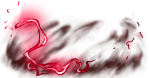
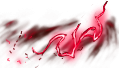
Pictures
Added pictures for new heroes, aBavah now holds energy orbs, adjusted
raging aura, Guy now has fireworks behind him, added P6 star

diff --git a/CosmosQuestSolver/src/GUI/CreatureDrawer.java b/CosmosQuestSolver/src/GUI/CreatureDrawer.java
@@ -196,6 +196,12 @@ public class CreatureDrawer {
     }
     
     protected static void drawHero(Hero h, Graphics g){
+        
+        if (h.getName().equals("Guy")){
+            BufferedImage fireworks = ImageFactory.getPicture("Stands/Firework Aura");
+            g.drawImage(fireworks, AssetPanel.CREATURE_PICTURE_SIZE - CREATURE_X, CREATURE_Y + 4, -CREATURE_WIDTH, CREATURE_HEIGHT - 8, null);
+        }
+        
         BufferedImage image = ImageFactory.getPicture(h.getImageAddress());
         
         if (h.isFacingRight()){
@@ -208,6 +214,7 @@ public class CreatureDrawer {
         if (CreatureDrawer.drawFuriousAura(h)){
             drawFuriousAura(h,g);
         }
+        
         
     }
     
@@ -240,7 +247,7 @@ public class CreatureDrawer {
     
     public static final int PROMOTE_STAR_SIZE = 20;
     public static final int P5_STAR_SIZE = 28;
-    public static final int P6_STAR_SIZE = 34;
+    public static final int P6_STAR_SIZE = 35;
     private static void drawPromotion(Hero h,Graphics g){
         BufferedImage promoteStar = ImageFactory.getPicture("Stands/PromoteStar");
         BufferedImage p5Star = ImageFactory.getPicture("Stands/P5Star");
@@ -278,10 +285,10 @@ public class CreatureDrawer {
             break;
             case 6:
                 if (h.isFacingRight()){//6th star is even bigger
-                    g.drawImage(p6Star, 0, 0, P6_STAR_SIZE, P6_STAR_SIZE, null);
+                    g.drawImage(p6Star, 0, 0, P6_STAR_SIZE - 2, P6_STAR_SIZE, null);
                 }
                 else{
-                    g.drawImage(p6Star, PROMOTE_STAR_SIZE - P6_STAR_SIZE, 0, P6_STAR_SIZE, P6_STAR_SIZE, null);
+                    g.drawImage(p6Star, PROMOTE_STAR_SIZE - P6_STAR_SIZE - 2, 0, P6_STAR_SIZE - 2, P6_STAR_SIZE, null);
                 }
             break;
             

diff --git a/CosmosQuestSolver/src/Formations/Formation.java b/CosmosQuestSolver/src/Formations/Formation.java
@@ -302,6 +302,7 @@ public class Formation implements Iterable<Creature>{
     }
     
     //cool solution: <Enemy> Guy:1k, Defile:1k, Geum:1k, Aural:1k, e33 <Solution> Rose:99.4, Guy:36, Hawking:99.4, Neil:99.5, aTR0N1X:99.4, Aurora:99.4
+    //<Enemy> Hoso:1k, Veil:1k, Nebra:1k, Nerissa:1k, Liu Cheng:1k <Solution> aAthos:99.5, Rose:99.4, Guy:57, Lee:99.4, Aurora:99.4, Fir:99.5
 
     public boolean isBossFormation() {
         return members.size() == 1 && members.getFirst() instanceof WorldBoss;

diff --git a/CosmosQuestSolver/src/GUI/SettingsFrame.java b/CosmosQuestSolver/src/GUI/SettingsFrame.java
@@ -52,7 +52,7 @@ public class SettingsFrame extends JFrame implements ActionListener{
     public SettingsFrame(){
         
         try{//not using image pool because it would trigger loading everything else
-            frameBackground = ImageIO.read(new File("pictures/Creator Background.png"));
+            frameBackground = ImageIO.read(new File("pictures/Backgrounds/Creator Background.png"));
         }
         catch(IOException e){
             System.out.println("error");

diff --git a/CosmosQuestSolver/src/GUI/MenuFrame.java b/CosmosQuestSolver/src/GUI/MenuFrame.java
@@ -41,7 +41,7 @@ public class MenuFrame extends JFrame implements ActionListener{
     public MenuFrame(){
         
         try{//not using image pool because it would trigger loading everything else
-            frameBackground = ImageIO.read(new File("pictures/Creator Background.png"));
+            frameBackground = ImageIO.read(new File("pictures/Backgrounds/Creator Background.png"));
         }
         catch(IOException e){
             System.out.println("error");

diff --git a/CosmosQuestSolver/src/SpecialAbilities/Ricochet.java b/CosmosQuestSolver/src/SpecialAbilities/Ricochet.java
@@ -12,7 +12,7 @@ import Formations.Formation;
 //number of creatures behind the head. Damage done to each hero is reduced by a
 //specified percentage every time it hits a creature, so those near the back
 //of the formation will recieve significantly reduced damage. Used by season 3 and 4
-//heroes, Taint, Raze, Sexy Santa, James, and Ascented TR1N0X
+//heroes, Taint, Raze, Sexy Santa, James, Smith, and Ascented TR1N0X
 
 /*
 public class Ricochet extends SpecialAbility{

diff --git a/CosmosQuestSolver/src/SpecialAbilities/PositionAttToHealth.java b/CosmosQuestSolver/src/SpecialAbilities/PositionAttToHealth.java
@@ -57,7 +57,7 @@ public class PositionAttToHealth extends SpecialAbility{//*activates before lepr
     
     @Override
     public String getDescription() {
-        return "At start, turns " + OtherThings.nicePercentString(percentPerPosition) + " of attack per position in line to HP";
+        return "At start, turns " + OtherThings.nicePercentString(percentPerPosition) + " of attack to HP per position in line";
     }
     
     @Override
